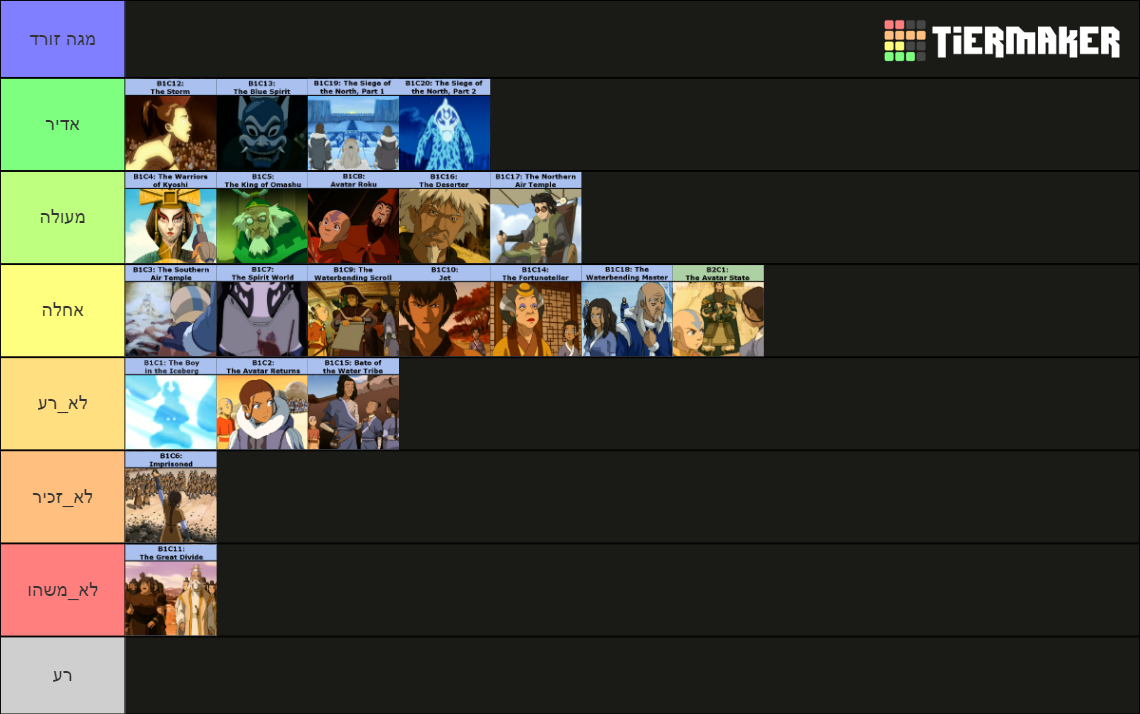
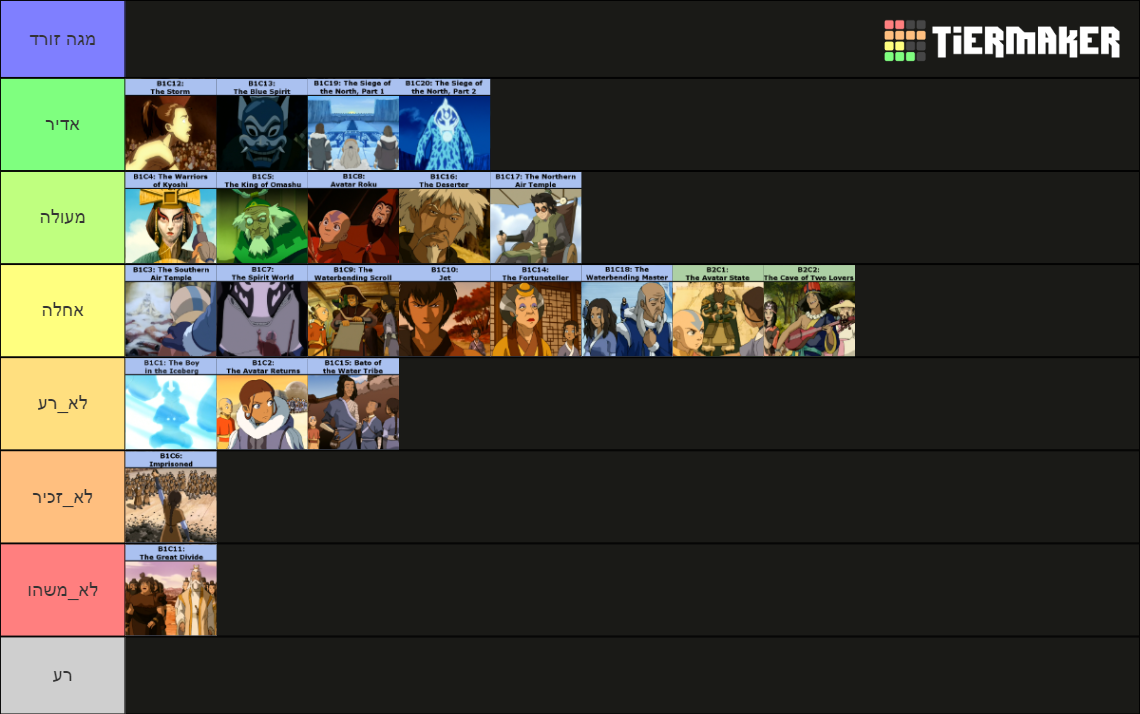
watch episode 202

Changed region(s): [[0.6447, 0.3697, 0.7675, 0.5238]]

diff --git a/עונה 2/202 - מערת שני האוהבים.md b/עונה 2/202 - מערת שני האוהבים.md
@@ -1,4 +1,4 @@
-![[202.png]]
+![](images/202.png "202")
 ## *תקציר:*
 - טים אווטאר צריכים להגיע לאומאשו זריז, כי צבא האש ממש על זנבם. טיסה על אפה לא מתאפשרת, ולכן מצטרפים אל חבורת היפים והולכים דרך מערה סודית - מערת האוהבים.
 - במקביל, זוקו ואיירו מתקשים להתרגל לסטטוס החדש שלהם כנמלטים. הם מחליטים שיותר בטוח עבורם להסתנן אל אומת האדמה מאשר להיתפס על ידי אזולה.
